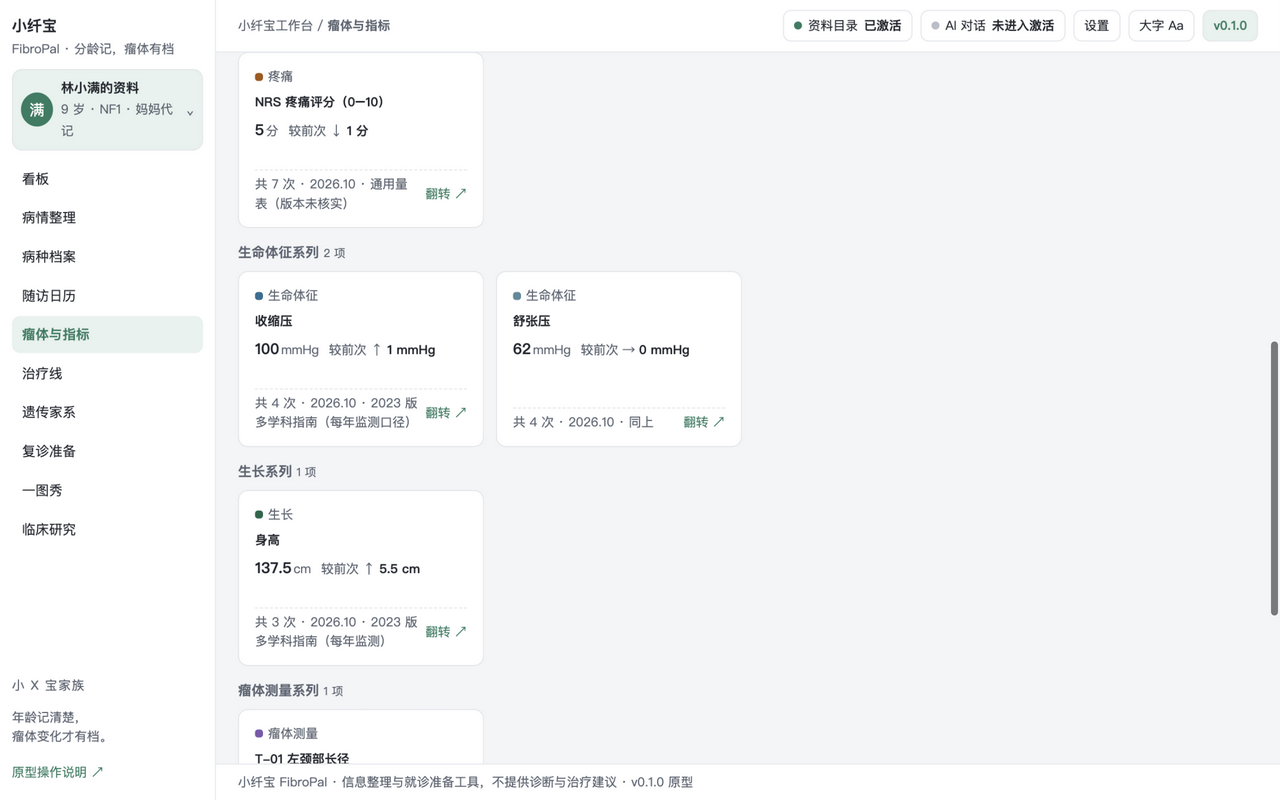
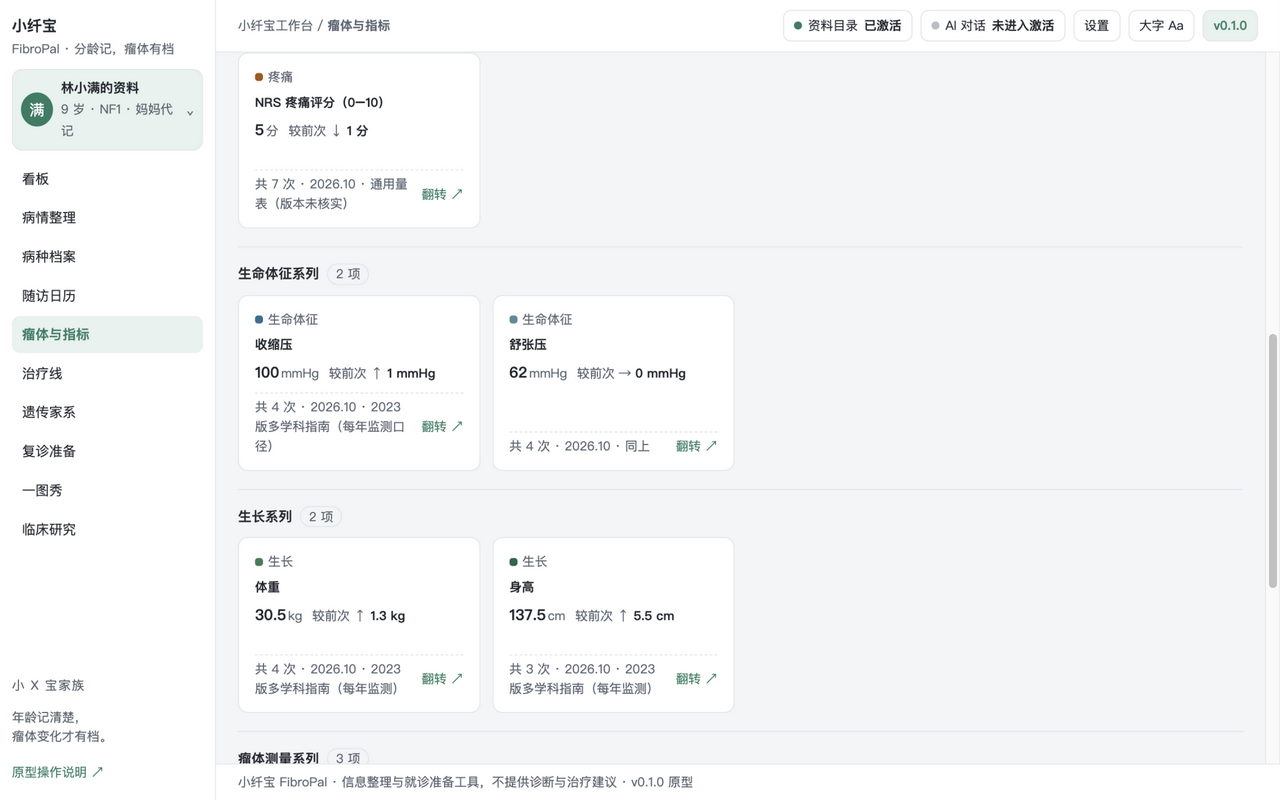
Prototype: densify metric wall to 9 series across 4 groups (weight, T-02/T-03), unify group heads/chips/rail with breast look, fix float drift in deltas/legend; shots refreshed

diff --git a/prototypes/v0.1/app.js b/prototypes/v0.1/app.js
@@ -17,6 +17,7 @@ const SUBTITLES = {
 };
 
 const state = { view: 'dashboard', flipped: {}, fold: { ageBands: ['child'], lines: ['TL-1'] }, chartSel: ['pain', 'tumor-t01'], range: 'all', toggles: { treatment: true, keypoints: true, changes: true }, pin: null, bigfont: false, privateOpen: false };
+const fmtV = (v) => (Number.isInteger(v) ? v : +v.toFixed(1));
 const METRIC_COLOR = (m) => m.color || '#2f6f8f';
 const toPts = (arr) => (arr || []).map(([y, mo, v]) => ({ d: y + '-' + String(mo).padStart(2, '0') + '-15', v }));
 const longDate = (d) => { const [y, m] = d.split('-'); return y + '.' + Number(m); };
@@ -65,7 +66,7 @@ function chartSVG(seriesList, h = 190) {
   const legend = seriesList.map((s, si) => `<text x="${pad.l + si * 130}" y="${h - 6}" fill="${colors[si % 4]}">${esc(s.name.length > 14 ? s.name.slice(0, 13) + '…' : s.name)}</text>`).join('');
   return `<svg class="chart" viewBox="0 0 ${w} ${h}" role="img" aria-label="趋势折线图">${g}${curves}${legend}</svg>`;
 }
-function metricData(m) { return m.series ? m.series : (m.id === 'tumor-t01' ? D.tumors[0].series : []); }
+function metricData(m) { if (m.series) return m.series; if (m.id && m.id.startsWith('tumor-')) { const t = D.tumors.find(x => x.id.toLowerCase() === m.id.replace('tumor-', 't-')); return t ? t.series : []; } return []; }
 function sparkline(data) {
   if (data.length < 2) return '';
   const ys = data.map(p => p[2]); const min = Math.min(...ys), max = Math.max(...ys);
@@ -161,7 +162,7 @@ function mcard(m) {
   const pts = toPts(metricData(m)); const last = pts[pts.length - 1], prev = pts[pts.length - 2];
   const flipped = !!state.flipped[m.id];
   const color = METRIC_COLOR(m);
-  const delta = prev ? ('较前次 ' + (last.v > prev.v ? '↑' : last.v < prev.v ? '↓' : '→') + ' <em>' + Math.abs(last.v - prev.v) + ' ' + esc(m.unit || '') + '</em>') : '首次记录';
+  const delta = prev ? ('较前次 ' + (last.v > prev.v ? '↑' : last.v < prev.v ? '↓' : '→') + ' <em>' + fmtV(Math.abs(last.v - prev.v)) + ' ' + esc(m.unit || '') + '</em>') : '首次记录';
   const cat = esc(m.group.replace('系列', ''));
   const front = '<span class="mcat"><i style="background:' + color + '"></i>' + cat + '</span>'
     + '<span class="mname">' + esc(m.name) + '</span>'
@@ -232,7 +233,7 @@ function oneChartSVG() {
 function oneLegend() {
   return D.metricSeries.filter(m => state.chartSel.includes(m.id) && metricData(m).length).map(m => {
     const vals = toPts(metricData(m)).map(x => x.v);
-    return '<span><i style="background:' + METRIC_COLOR(m) + '"></i><b>' + esc(m.name) + '</b> ' + vals[vals.length - 1] + ' ' + esc(m.unit || '') + '<span class="range">全期 ' + Math.min(...vals) + '–' + Math.max(...vals) + '</span></span>';
+    return '<span><i style="background:' + METRIC_COLOR(m) + '"></i><b>' + esc(m.name) + '</b> ' + fmtV(vals[vals.length - 1]) + ' ' + esc(m.unit || '') + '<span class="range">全期 ' + fmtV(Math.min(...vals)) + '–' + fmtV(Math.max(...vals)) + '</span></span>';
   }).join('');
 }
 function pinHTML() {

diff --git a/prototypes/v0.1/style.css b/prototypes/v0.1/style.css
@@ -60,9 +60,12 @@ th { font-size: 12.5px; color: var(--ink-2); font-weight: 600; }
 .pill.todo { background: #f7e9dd; color: var(--warn); }
 
 /* 3D 翻转指标系列卡（breast 口径：固定尺寸、原位翻转，位置与尺寸不因翻转改变） */
-.series-group { margin-bottom: 14px; }
-.series-group > h3 { font-size: 13.5px; color: var(--ink-2); margin: 0 0 8px; }
-.mgrid { display: grid; grid-template-columns: repeat(auto-fill, minmax(200px, 1fr)); gap: 12px; }
+.series-group { margin-bottom: 18px; }
+.series-group > h3 { display: flex; align-items: center; gap: 8px; font-size: 13.5px; margin: 0 0 10px; color: var(--ink); }
+.series-group > h3 small { font-weight: 400; font-size: 12.5px; color: var(--ink-2); background: var(--bg); border: 1px solid var(--line); border-radius: 999px; padding: 0 8px; }
+.series-group + .series-group { border-top: 1px solid var(--line); padding-top: 16px; }
+.mgrid { display: grid; grid-template-columns: repeat(auto-fill, minmax(215px, 1fr)); gap: 12px; }
+.mcard { max-width: 300px; width: 100%; }
 .mcard { position: relative; height: 176px; border: 0; background: none; padding: 0; text-align: left; perspective: 900px; }
 .mcard-inner { position: absolute; inset: 0; transform-style: preserve-3d; transition: transform .5s cubic-bezier(.2,.7,.2,1); }
 .mcard-inner.flipped { transform: rotateY(180deg); }
@@ -89,12 +92,13 @@ th { font-size: 12.5px; color: var(--ink-2); font-weight: 600; }
 /* 一图秀（breast 口径：左栏 + 主图；窄形态上下堆叠） */
 .one-grid { display: grid; grid-template-columns: 250px minmax(0, 1fr); gap: 14px; align-items: start; }
 .rail { background: var(--card); border: 1px solid var(--line); border-radius: var(--radius); padding: 12px 14px; position: sticky; top: 12px; }
-.rail h3 { font-size: 12.5px; margin: 0 0 6px; }
+.rail h3 { font-size: 12.5px; letter-spacing: .4px; margin: 0 0 8px; color: var(--ink); }
 .rail h3 small { font-weight: 400; color: var(--ink-2); }
-.rail section + section { margin-top: 12px; padding-top: 12px; border-top: 1px solid var(--line); }
+.rail section + section { margin-top: 14px; padding-top: 13px; border-top: 1px solid #eef1ee; }
+.rail .cat-label { margin-top: 10px; }
 .chips { display: flex; flex-wrap: wrap; gap: 6px; }
 .chip { min-height: 28px; padding: 3px 11px; border-radius: 20px; font-size: 12.5px; background: var(--card); border: 1px solid var(--line); color: var(--ink-2); }
-.chip[aria-pressed="true"] { background: var(--accent); border-color: var(--accent); color: #fff; font-weight: 500; }
+.chip[aria-pressed="true"] { background: #2c3a34; border-color: #2c3a34; color: #fff; font-weight: 500; }
 .cat-label { font-size: 12.5px; color: var(--ink-2); letter-spacing: .5px; margin: 8px 0 2px; }
 .metric-pick { display: flex; align-items: center; gap: 8px; padding: 5px 4px; font-size: 12.5px; color: var(--ink-2); border-radius: 8px; cursor: pointer; }
 .metric-pick:hover { background: var(--bg); }

diff --git a/prototypes/v0.1/demo-data.js b/prototypes/v0.1/demo-data.js
@@ -34,8 +34,11 @@ window.NF_DEMO = {
     { id: 'pain', group: '疼痛系列', name: 'NRS 疼痛评分（0–10）', unit: '分', kind: 'number', source: '通用量表（版本未核实）', color: '#a4561f', series: [[2026, 4, 3], [2026, 5, 4], [2026, 6, 4], [2026, 7, 5], [2026, 8, 4], [2026, 9, 6], [2026, 10, 5]] },
     { id: 'bp-sys', group: '生命体征系列', name: '收缩压', unit: 'mmHg', kind: 'number', source: '2023 版多学科指南（每年监测口径）', color: '#2f6f8f', series: [[2026, 1, 96], [2026, 4, 98], [2026, 7, 99], [2026, 10, 100]] },
     { id: 'bp-dia', group: '生命体征系列', name: '舒张压', unit: 'mmHg', kind: 'number', source: '同上', color: '#5b8a97', series: [[2026, 1, 60], [2026, 4, 61], [2026, 7, 62], [2026, 10, 62]] },
+    { id: 'weight', group: '生长系列', name: '体重', unit: 'kg', kind: 'number', color: '#3e7d5a', source: '2023 版多学科指南（每年监测）', series: [[2024, 10, 24.5], [2025, 10, 28.0], [2026, 4, 29.2], [2026, 10, 30.5]] },
     { id: 'height', group: '生长系列', name: '身高', unit: 'cm', kind: 'number', source: '2023 版多学科指南（每年监测）', color: '#22664e', series: [[2024, 10, 126.5], [2025, 10, 132.0], [2026, 10, 137.5]] },
     { id: 'tumor-t01', group: '瘤体测量系列', name: 'T-01 左颈部长径', unit: 'mm', kind: 'number', source: 'MRI 报告数值', color: '#7a5aa8', series: null /* 引用 tumors[0].series */ },
+    { id: 'tumor-t02', group: '瘤体测量系列', name: 'T-02 右前臂长径', unit: 'mm', kind: 'number', source: '体表测量记录', color: '#9a7ab8', series: null /* 引用 tumors[1].series */ },
+    { id: 'tumor-t03', group: '瘤体测量系列', name: 'T-03 背部长径', unit: 'mm', kind: 'number', source: '体表测量记录', color: '#b8a1d1', series: null /* 引用 tumors[2].series */ },
     { id: 'hearing-l', group: 'NF2/听力系列（本档案未启用）', name: '左耳 PTA', unit: 'dB HL', kind: 'number', source: 'WHO WRH 2021 分级口径', color: '#8a6d3b', series: [] }
   ],
   treatmentLines: [

diff --git a/dsh/demo.js b/dsh/demo.js
@@ -33,7 +33,7 @@ export function seedDemo(db) {
     const unit = m.unit
     ins(`INSERT INTO metrics (key, group_title, name, unit, kind, band_low, band_high, source_title, source_version, in_use)
       VALUES (?,?,?,?,?,NULL,NULL,?,?,1)`, m.id, m.group, m.name, unit, 'numeric', m.source, '2025')
-    const series = m.series ?? (m.id === 'tumor-t01' ? d.tumors[0].series : [])
+    const t = m.id && m.id.startsWith('tumor-') ? d.tumors.find(x => x.id.toUpperCase() === ('T-' + m.id.slice(6))) : null; const series = m.series ?? (t ? t.series : [])
     for (const [y, mo, v] of series) {
       ins(`INSERT INTO metric_points (profile_key, metric_key, taken_at, value_num, value_text, tumor_no, note) VALUES (?,?,?,?,NULL,?,NULL)`,
         pk, m.id, `${y}-${String(mo).padStart(2, '0')}-15`, v, m.id.startsWith('tumor') ? m.id.replace('tumor-', '') : null)

diff --git a/docs/PROTOTYPE-REVIEW.md b/docs/PROTOTYPE-REVIEW.md
@@ -35,3 +35,9 @@
 - 顶栏「AI 对话」按钮原有开合逻辑保留（拉起/隐藏原生会话占位面板，宽窄档位 25–45%）。
 - 面板底部加固定声明：AI 输出是草稿与整理建议，不构成诊断或治疗建议。
 - 实测：07-ai-discuss-carry.png（瘤体与指标页点击后面板携带 T-01/T-02/T-03、已选指标、系列数）。
+
+## 2026-10-25 四次迭代（用户反馈：指标只有一个？风格不一致）
+- 根因一（数据密度）：6 指标散在 5 组，每组 1–2 卡拉满整行，观感成了"每组只有一个"。补齐 NF 数值指标到 9 项（+体重、+T-02/T-03 测量系列，数据复用 tumors 时序），demo 唯一源同步；dsh/demo.js 种子的瘤体引用改通用映射。
+- 根因二（风格）：分组头改 breast 口径（组名+计数徽标+组分隔线）；卡墙 minmax 215px、卡宽上限 300px；chip 选中态改深色（breast 观感）；rail 分节标题加字距、分节线调浅。
+- 顺带修：浮点尾差（1.3000000000000007kg → 1.3kg，fmtV 用于 delta/图例区间）。
+- 实测：9 卡 4 列网格；02-tumors-metrics / 02-tumors-metrics-flipped / 04-onechart-rail-default 已刷新。
